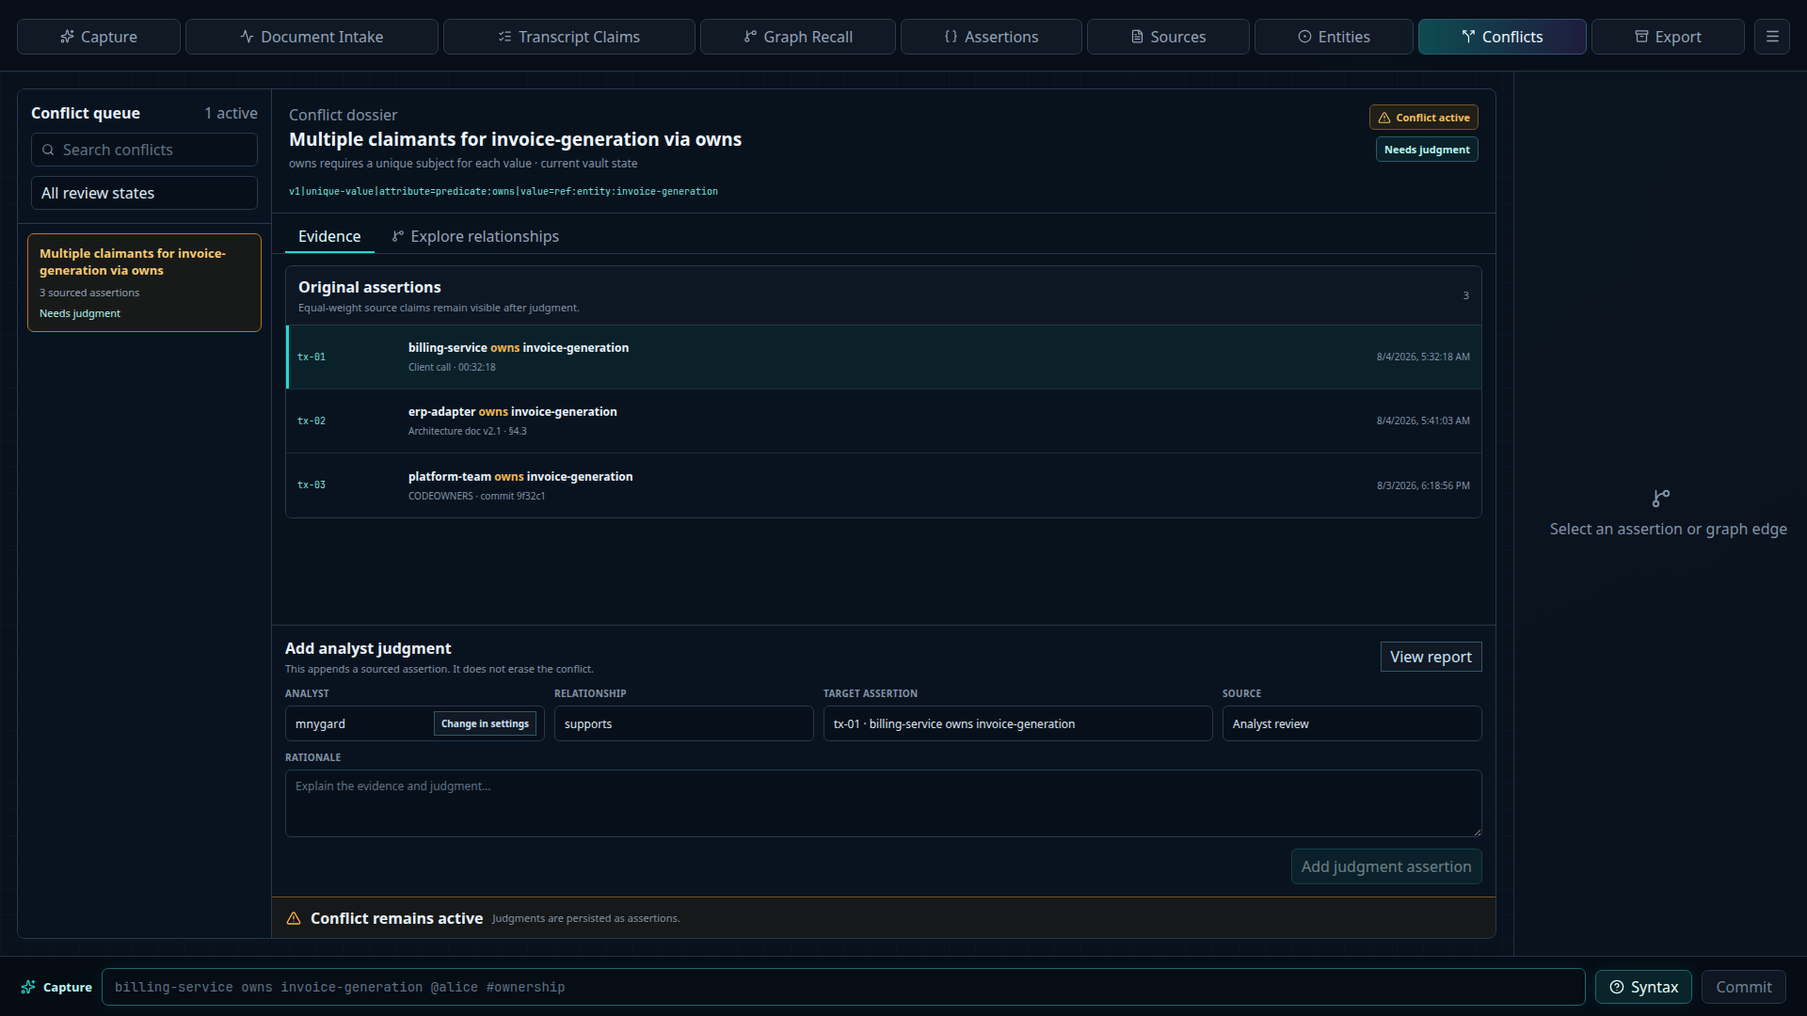
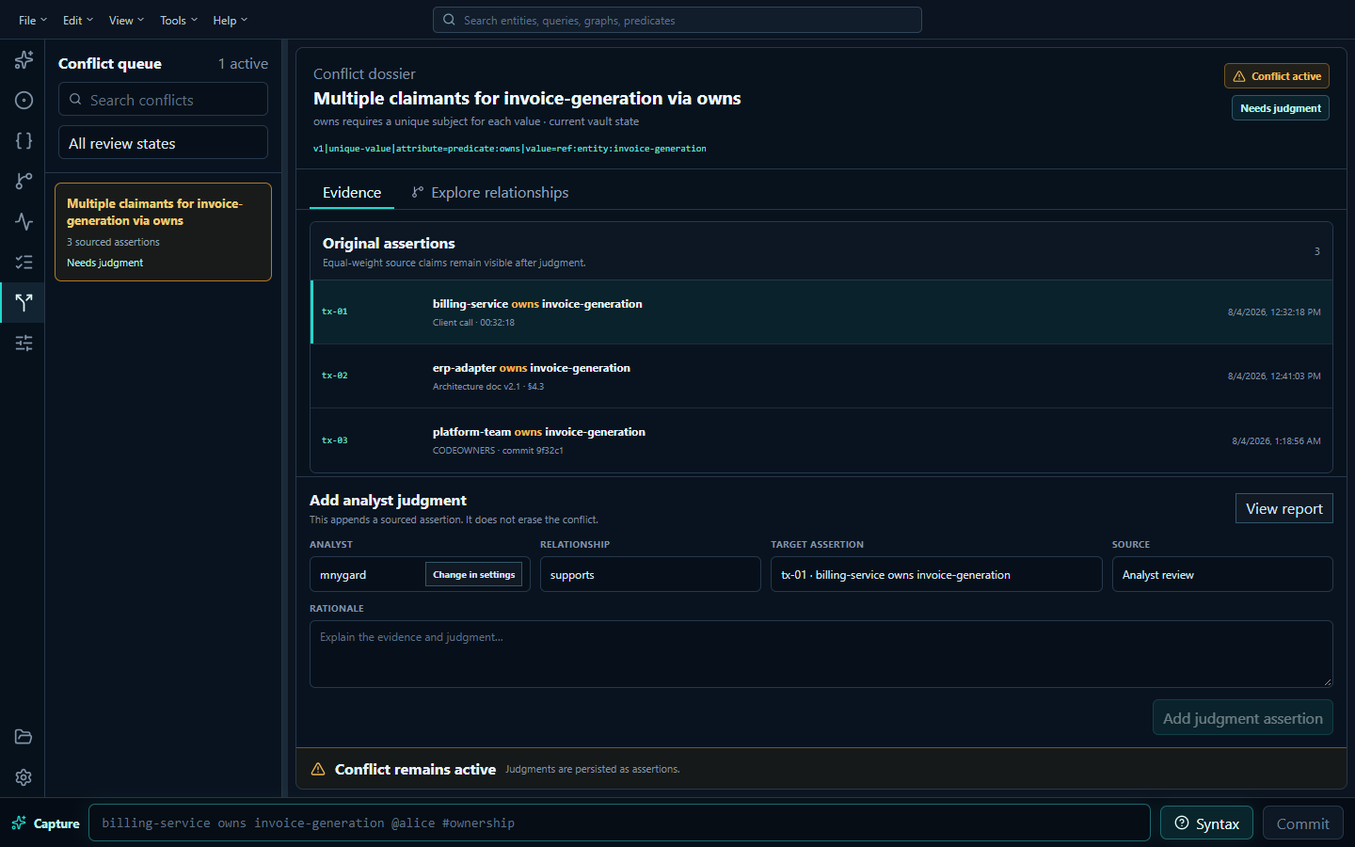
Update guide and screenshots for CLA-128 workbench

diff --git a/site/static/docs.css b/site/static/docs.css
@@ -91,6 +91,8 @@ h3 { margin: 32px 0 12px; font-size: 1.18rem; }
 .docs-home-feature { display: flex; justify-content: space-between; gap: 32px; align-items: end; padding: 28px; border: 1px solid var(--line-strong); border-radius: 10px; background: linear-gradient(120deg, var(--teal-dim), rgba(11, 20, 32, 0.78)); }
 .docs-home-feature h2, .docs-home-section h2 { margin: 0 0 12px; }
 .docs-home-feature p:not(.docs-kind) { max-width: 660px; margin: 0; color: var(--muted); line-height: 1.65; }
+.docs-home-orientation { display: inline-block; margin-top: 12px; color: var(--teal); text-decoration: none; }
+.docs-home-orientation:hover { text-decoration: underline; }
 .docs-home-action { flex: 0 0 auto; padding: 12px 16px; border: 1px solid rgba(34, 216, 204, 0.5); border-radius: 7px; color: var(--text); font-weight: 700; text-decoration: none; }
 .docs-home-section { padding-top: 64px; }
 .docs-card-grid { display: grid; grid-template-columns: repeat(3, minmax(0, 1fr)); gap: 12px; margin-top: 22px; }

diff --git a/site/layouts/_default/guide-home.html b/site/layouts/_default/guide-home.html
@@ -23,7 +23,7 @@
       </header>
       <div class="site-shell docs-home">
         <section class="docs-home-feature" aria-labelledby="get-started-title">
-          <div><p class="docs-kind">New to Claimframe?</p><h2 id="get-started-title">Create your first sourced claim</h2><p>Build a disposable vault, capture two accounts, retrieve them, inspect provenance, and save the query in about ten minutes.</p></div>
+          <div><p class="docs-kind">New to Claimframe?</p><h2 id="get-started-title">Create your first sourced claim</h2><p>Build a disposable vault, capture two accounts, retrieve them, inspect provenance, and save the query in about ten minutes.</p><a class="docs-home-orientation" href="/guide/start/workbench/">First, find your way around the workbench →</a></div>
           <a class="docs-home-action" href="/guide/start/first-claim/">Start the tutorial →</a>
         </section>
 

diff --git a/site/layouts/shortcodes/guide-shot.html b/site/layouts/shortcodes/guide-shot.html
@@ -1,7 +1,7 @@
 <figure class="guide-shot">
   <div class="guide-shot-frame">
     <img src="{{ .Get "src" }}" alt="{{ .Get "alt" }}" loading="lazy">
-    <span class="guide-shot-highlight" style="--shot-x: {{ .Get "x" }}; --shot-y: {{ .Get "y" }}; --shot-width: {{ .Get "width" }}; --shot-height: {{ .Get "height" }};" aria-hidden="true"></span>
+    {{ with .Get "x" }}<span class="guide-shot-highlight" style="--shot-x: {{ . }}; --shot-y: {{ $.Get "y" }}; --shot-width: {{ $.Get "width" }}; --shot-height: {{ $.Get "height" }};" aria-hidden="true"></span>{{ end }}
   </div>
   {{ with .Get "caption" }}<figcaption>{{ . }}</figcaption>{{ end }}
 </figure>

diff --git a/site/layouts/index.html b/site/layouts/index.html
@@ -798,7 +798,7 @@
             <span>vault://client-assertions</span>
             <span class="visual-dots" aria-hidden="true"><span></span><span></span><span></span></span>
           </div>
-          <img src="/assets/claimframe-workbench.png" alt="Claimframe app screenshot showing the Capture tab with a sourced assertion composer, evidence panel, match preview, and quick capture bar.">
+          <img src="/assets/claimframe-workbench.png" alt="Claimframe compact workbench with a menu bar, universal search, left activity bar, contextual Capture sidebar, and a sourced assertion in the main Capture area.">
         </figure>
       </section>
 

diff --git a/site/layouts/_default/docs.html b/site/layouts/_default/docs.html
@@ -24,6 +24,7 @@
         <div class="docs-group">
           <strong>Get started</strong>
           <a href="/guide/">Guide home</a>
+          <a href="/guide/start/workbench/"{{ if eq $.RelPermalink "/guide/start/workbench/" }} aria-current="page"{{ end }}>Find your way around</a>
           <a href="/guide/start/first-claim/"{{ if eq $.RelPermalink "/guide/start/first-claim/" }} aria-current="page"{{ end }}>Your first sourced claim</a>
         </div>
         <div class="docs-group">

diff --git a/site/content/guide/how-to/capture-from-transcript.md b/site/content/guide/how-to/capture-from-transcript.md
@@ -18,17 +18,17 @@ url = "/guide/how-to/inspect-provenance/"
 
 Use transcript workflows when a meeting, interview, or recording contains several statements worth reviewing individually. Claimframe keeps the imported words, speaker, and timestamp as evidence; extraction proposes structured claims from that evidence. Nothing becomes a stored assertion until you accept its candidate.
 
-This page describes the transcript-driven workflow. If you need to extract claims from unstructured documents, use the **Document Intake** tab.
+This page describes the transcript-driven workflow. If you need to extract claims from unstructured documents, choose **Document Intake** in the activity bar.
 
 ## Transcript import
 
-1. Open **Transcript Claims** and choose **New**.
+1. Choose **Transcript Intake** in the activity bar, then choose **New** at the top of the Workflows sidebar.
 2. Give the workflow a recognizable name. The name is optional but useful when several interviews are in progress.
 3. Paste the transcript, or choose **Load transcript file** to read a local text file.
 4. Choose **Import and create workflow**.
 5. Confirm the workflow appears under **In progress** and that the workflow timeline advances beyond **Import transcript**.
 
-{{< guide-shot src="/assets/guide/transcript-import-timeline.png" alt="Transcript Claims import form containing the deterministic transcript at the start of a new workflow" caption="Start a new transcript workflow by naming it and adding the transcript you want to review." >}}
+{{< guide-shot src="/assets/guide/transcript-import-timeline.png" alt="Transcript Intake workspace showing the Workflows sidebar and a new transcript import form" caption="Name the workflow and add the transcript in the main area. Existing workflows remain in the sidebar." >}}
 
 ### Transcript file format
 
@@ -59,16 +59,16 @@ Import stores the source and its segments. It does not by itself create facts in
 
 After import, Claimframe prepares candidate claims from the structured transcript lines and advances the workflow to **Review claims**. Review each candidate against the transcript before deciding whether it should become a fact in the vault.
 
-1. Select the workflow under **In progress** and inspect the proposed candidates and extraction issues.
+1. Select the workflow under **In progress** in the Workflows sidebar and inspect the proposed candidates and extraction issues.
 2. Compare each candidate's subject, predicate, and object with the displayed source words and supporting excerpts.
 3. Correct the structured fields when the proposal does not faithfully represent the source, then save the edits.
 4. Choose **Accept** to create an assertion, **Defer** to leave the candidate unfinished, or **Reject** to make a final decision without creating an assertion.
 5. Use the status tabs to revisit accepted, deferred, or rejected candidates. **Undo last defer/reject** reverses the most recent reversible decision.
-6. Open **Assertions** and confirm accepted candidates retain the transcript source and exact segment evidence.
+6. Open **Query** and confirm accepted candidates retain the transcript source and exact segment evidence.
 
-{{< guide-shot src="/assets/guide/transcript-candidates.png" alt="Transcript Claims candidate review with a selected candidate, its transcript evidence, and controls for configuring a new predicate" x="81.3%" y="8.7%" width="17.7%" height="72.7%" caption="Select a candidate to compare its proposed fields with the exact transcript evidence and configure any new predicate before accepting it." >}}
+{{< guide-shot src="/assets/guide/transcript-candidates.png" alt="Transcript Intake review showing workflow navigation on the left and two candidate cards with fields and review actions in the main area" caption="The workflow queue sits in the sidebar. Review each candidate's structured fields, source words, and evidence before deciding." >}}
 
-When a candidate uses a predicate that is not yet in the vault, the evidence panel marks it as **New predicate**. Under **Values per subject**, choose **One value** when each subject should have at most one current value for the predicate, or **Multiple values** when several values may be current at once. See [Predicate settings](/guide/reference/predicate-settings/) for the consequences of this choice and the other available predicate settings.
+When a candidate uses a predicate that is not yet in the vault, its evidence and validation panel marks it as **New predicate**. Under **Values per subject**, choose **One value** when each subject should have at most one current value for the predicate, or **Multiple values** when several values may be current at once. See [Predicate settings](/guide/reference/predicate-settings/) for the consequences of this choice and the other available predicate settings.
 
 The same normalized claim may appear in more than one transcript segment. Claimframe can present it as one candidate with multiple supporting excerpts. Similar but non-identical claims remain separate for review, and a line that cannot be parsed appears as an extraction issue rather than becoming a fact silently.
 
@@ -83,4 +83,4 @@ There is no separate completion button. Claimframe completes the workflow automa
 3. Confirm the timeline reaches **Complete** and the message **Transcript claim review complete** appears.
 4. Confirm the workflow moves from **In progress** to **Completed** in the workflow list.
 
-Accepted candidates are available under **Assertions**. Rejected candidates remain part of the transcript workflow's review history but do not become assertions.
+Accepted candidates are available under **Query**. Rejected candidates remain part of the transcript workflow's review history but do not become assertions.

diff --git a/site/content/guide/start/workbench.md b/site/content/guide/start/workbench.md
@@ -1,0 +1,33 @@
++++
+title = "Find your way around the workbench"
+description = "Use the activity bar, workspace sidebar, menus, search, and contextual details in the compact desktop layout."
+layout = "docs"
+doc_type = "Get started"
+doc_section = "Get started"
+[[related]]
+label = "Keyboard shortcuts"
+url = "/guide/reference/keyboard-shortcuts/"
+[next]
+label = "Create your first sourced claim"
+url = "/guide/start/first-claim/"
++++
+
+Claimframe opens inside one workbench shell. Before a vault is open, the start screen occupies its content area. After you open a vault, the narrow activity bar on the left selects the main workspace. Hover over an icon to see its name; the active workspace is marked in the bar.
+
+{{< guide-shot src="/assets/guide/manual-capture.png" alt="Compact Claimframe workbench showing the menu bar and universal search above the activity bar, Capture sidebar, and main Capture area" caption="The activity bar selects a workspace; its sidebar and main area then show controls for that task." >}}
+
+## Move between workspaces
+
+The activity bar opens **Capture**, **Entities**, **Query**, **Graph**, **Document Intake**, **Transcript Intake**, **Conflicts**, and **Predicates**. **Vaults** and **Settings** sit at the foot of the bar. **Sources**, **Manage Queries**, and **Manage Vocabularies** are available from **Tools** in the menu bar.
+
+The sidebar changes with the workspace. In **Capture**, choose an entity to insert its name into the capture field. In **Query**, the sidebar shows saved queries and entities; choosing a saved query runs it. **Document Intake**, **Transcript Intake**, and **Conflicts** put their workflow or review queues there. Sidebar sections expand and collapse in a fixed order.
+
+Choose the active activity-bar icon again, or **View → Hide Sidebar**, to give the main task more room. Choose it again or **View → Show Sidebar** to restore the sidebar. Drag the divider to resize it; with the divider focused, use the left and right arrow keys. Double-click the divider to restore its default width.
+
+## Find content and inspect details
+
+The search field in the menu bar finds content in the current vault. Select a result to open the relevant workspace. For a structured assertion search, open **Query** or **Graph** and enter a query there.
+
+Select an assertion to show its provenance and review controls on the right. Use **View → Hide Details** or **Show Details** when an assertion is selected. Graph, transcript, and conflict views also show task-specific details inside their main area.
+
+Use **File** for vault actions and **Tools** for sources, saved queries, predicates, vocabularies, and application settings. **View** also contains **Zoom In**, **Zoom Out**, and **Reset Zoom**. These commands change the interface scale, including the sidebar and main content.

diff --git a/site/content/guide/how-to/query-and-save.md b/site/content/guide/how-to/query-and-save.md
@@ -12,15 +12,15 @@ label = "Inspect provenance"
 url = "/guide/how-to/inspect-provenance/"
 +++
 
-1. Open **Assertions** or **Graph Recall**.
+1. Choose **Query** or **Graph** in the activity bar.
 2. Enter the smallest subject–predicate–object pattern that describes the needed result, then run it.
 3. Narrow the results with source, predicate, object, status, or conflicts-only filters where available. You can also select a value in an assertion row to pivot to a related result.
 4. Beside the query field, choose **Save current query**.
 5. In the **Query name** field, enter a recognizable name such as `Invoice ownership`.
-6. Choose **Save query**. A success message confirms that the query pattern—not the matching facts—was saved in the current vault.
-7. Open the app menu and choose **Manage queries** to run, rename, or delete the saved query.
+6. Choose **Save**. A success message confirms that the query pattern—not the matching facts—was saved in the current vault.
+7. Run the saved query from **Saved Queries** in the Query sidebar. Choose **Tools → Manage Queries** to rename or delete it.
 
-{{< guide-shot src="/assets/guide/save-query.png" alt="Assertion Recall with the save-query name dialog highlighted" x="53%" y="22%" width="23%" height="15%" caption="The save control beside the query opens this naming dialog. Name the query, then choose Save." >}}
+{{< guide-shot src="/assets/guide/save-query.png" alt="Query workspace with Saved Queries in the sidebar and the query naming popover open" x="54%" y="18.7%" width="22.5%" height="17.3%" caption="The save control beside the query opens a naming popover. Saved queries appear in the Query sidebar." >}}
 
 For example:
 
@@ -32,6 +32,6 @@ If a structured query returns nothing, remove one exact value or replace it with
 
 Saving a query does not copy or freeze its current results. Running it later evaluates the saved pattern against the vault's then-current facts.
 
-## Export the result
+## Export vault content
 
-Open **Export** to copy the current vault assertions as Markdown for notes, documentation, or handoff. Check the preview or copied output before using it: export carries the selected assertion material forward but does not replace the original vault or its interactive provenance views.
+Choose **File → Export Vault** to start a CFText export in **Vaults**. The exported file is a current-state copy of the vault for sharing or editing; it does not save only the current query results. Keep the original vault and its backups for provenance and full review history.

diff --git a/site/content/guide/how-to/manage-vocabulary.md b/site/content/guide/how-to/manage-vocabulary.md
@@ -27,8 +27,8 @@ You can use a vault without adopting any vocabulary. Adopt one when stable ident
 
 ## Preview a release
 
-1. Open the app menu and choose **Manage vocabularies**.
-2. Select a supplied release from **Library**, or choose **Import file** to preview a local `.cfvocab` package.
+1. Choose **Settings** at the foot of the activity bar, then expand **Vocabularies** in its sidebar. You can also choose **Tools → Manage Vocabularies**.
+2. Select a supplied release in the **Vocabularies** sidebar, or choose **Import vocabulary file** in its section header to preview a local `.cfvocab` package.
 3. Review the publisher, namespace, license, release number, attribution, and content counts.
 4. Scan **Contents** for the terms and predicates you expect. If the preview reports local name collisions, review the replacement tokens before continuing.
 
@@ -42,7 +42,7 @@ Under **Import content**, choose the kinds of content the vault needs:
 - **Predicates** imports properties and their value shapes.
 - **General knowledge** imports the package's assertions connecting those terms. It is available only when both terms and predicates are selected.
 
-{{< guide-shot src="/assets/guide/manage-vocabulary.png" alt="Vocabulary preview showing its contents, import-content choices, attribution, and Adopt vocabulary button" x="35.7%" y="72.8%" width="62.2%" height="16.8%" caption="Choose the content categories the vault needs, review the attribution, and then adopt the release." >}}
+{{< guide-shot src="/assets/guide/manage-vocabulary.png" alt="Vocabularies settings with a selected RDF/RDFS release in the sidebar and its contents, import choices, attribution, and Adopt vocabulary button in the main area" x="22.8%" y="60.5%" width="74.2%" height="20.4%" caption="Select a release in the sidebar, review its details, and choose the content to adopt." >}}
 
 1. Confirm the attribution displayed below the import choices.
 2. Choose **Adopt vocabulary**.
@@ -53,8 +53,8 @@ Claimframe blocks another release with the same vocabulary ID rather than treati
 
 ## Undo an adoption
 
-1. Return to **Manage vocabularies**.
-2. Find the release under **Adopted by this vault**.
+1. Return to **Settings → Vocabularies**.
+2. Select the adopted release in the sidebar.
 3. Choose **Undo unused import**, then confirm with **Remove**.
 
 Undo succeeds only while no assertion, saved query, or other adopted vocabulary depends on the imported content. When the button is disabled, its explanation identifies why the release cannot be removed.

diff --git a/site/content/guide/start/first-claim.md b/site/content/guide/start/first-claim.md
@@ -7,6 +7,9 @@ doc_section = "Get started"
 [[related]]
 label = "Why assertions are not facts"
 url = "/guide/concepts/assertions-not-facts/"
+[[related]]
+label = "Find your way around the workbench"
+url = "/guide/start/workbench/"
 [next]
 label = "Modeling good claims"
 url = "/guide/concepts/modeling-good-claims/"
@@ -24,7 +27,7 @@ On the start screen, choose **New vault**. Save the file as `claimframe-tutorial
 
 ## 2. Capture Alice's claim
 
-Open **Capture**, enter the following text exactly, and commit it:
+Choose **Capture** in the left activity bar, enter the following text exactly in the main capture field, and choose **Commit**:
 
 ```text
 billing-service owns invoice-generation @alice ^00:32:18 #ownership
@@ -34,7 +37,7 @@ billing-service owns invoice-generation @alice ^00:32:18 #ownership
 
 ## 3. Capture Bob's different account
 
-Enter and commit:
+In the same capture field, enter and commit:
 
 ```text
 accounting-platform owns invoice-generation @bob ^00:41:03 #ownership
@@ -44,7 +47,7 @@ accounting-platform owns invoice-generation @bob ^00:41:03 #ownership
 
 ## 4. Retrieve the ownership claims
 
-Open **Assertions**. In the query field, enter:
+Choose **Query** in the activity bar. In its query field, enter:
 
 ```text
 ? owns invoice-generation
@@ -56,7 +59,7 @@ Run the query.
 
 ## 5. Inspect the evidence
 
-Select Alice's assertion. In the provenance inspector, locate the source, evidence locator, capture time, status, confidence, and raw capture text.
+Select Alice's assertion. The provenance panel opens at the right. Locate the source, evidence locator, capture time, status, confidence, and original source text. If you hid the panel, choose **View → Show Details**.
 
 **Expected result:** the source is `alice`, the locator is `00:32:18`, and the default status is `active`.
 
@@ -68,9 +71,9 @@ With Alice's assertion selected, change its status to `needs_review`.
 
 ## 7. Save the query
 
-Return to the query field and choose **Save current query**. Enter `Invoice ownership` in the **Query name** field, then choose **Save query**.
+Return to the query field and choose **Save current query** beside it. Enter `Invoice ownership` in the **Query name** field, then choose **Save**.
 
-Open the app menu, choose **Manage queries**, and run `Invoice ownership`.
+Run `Invoice ownership` from **Saved Queries** in the Query sidebar. For rename or delete actions, choose **Tools → Manage Queries**.
 
 **Expected result:** the same two ownership claims return without retyping the pattern.
 

diff --git a/site/content/guide/how-to/manage-vault.md b/site/content/guide/how-to/manage-vault.md
@@ -1,6 +1,6 @@
 +++
 title = "Manage a vault"
-description = "Create, open, switch, rename, and safely back up a local Claimframe vault."
+description = "Create, open, rename, and safely back up a local Claimframe vault."
 layout = "docs"
 doc_type = "How-to guide"
 doc_section = "How-to guides"
@@ -23,20 +23,20 @@ Use these procedures to manage the local file that holds one body of Claimframe 
 
 Normal vaults start empty. Supported file extensions include `.sqlite3`, `.sqlite`, `.db`, and `.cfvault`.
 
-## Open or switch vaults
+## Open another vault
 
-1. Choose a recent vault on the start screen, or open the app menu and choose **Manage vaults**.
-2. Select a recent vault or browse for a local vault file.
-3. Open it in the current window to switch context, or choose the new-window action to keep both vaults open.
+1. On the start screen, choose a recent vault or use **File → Open Vault** to browse for a local file. **File → Recent vaults** also lists tracked files.
+2. With a vault open, choose the **Vaults** icon and then **Recent vaults** in its sidebar, or choose **File → Manage Vaults**.
+3. The first vault binds the current process. Opening another vault while one is active opens it in a new window; use **Open in New Window** from the recent-vault list.
 4. Confirm the intended vault path before capturing or querying.
 
 ## Rename the display name
 
-In **Manage vaults**, choose **Rename**, enter the new display name, and save it. This changes application metadata; it does not rename or move the underlying SQLite file.
+In **Vaults → Recent vaults**, choose **Rename**, enter the new display name, and save it. This changes application metadata; it does not rename or move the underlying SQLite file.
 
 ## Back up a vault
 
-1. Find the active vault path in application settings.
+1. Find the active vault path under **Vaults → Current vault**.
 2. Close Claimframe and stop any local MCP process using that vault.
 3. Copy the vault file into the project's encrypted backup location.
 4. Confirm the copied file exists and has a plausible modification time and size.

diff --git a/site/content/guide/how-to/resolve-disagreement.md b/site/content/guide/how-to/resolve-disagreement.md
@@ -19,13 +19,13 @@ Use the Conflicts workspace to compare competing source claims and record what a
 
 ## Review the conflict
 
-1. Open **Conflicts** and select a conflict from the queue.
+1. Choose **Conflicts** in the activity bar and select a conflict from the queue in its sidebar.
 2. Confirm that the dossier says **Conflict active** and inspect the detection rule beneath the title. If the conflict is unexpected, review the predicate's [settings](/guide/reference/predicate-settings/) before judging the source claims.
 3. Under **Original assertions**, select each participating claim in turn.
-4. Compare its exact wording, source, evidence locator, capture time, and provenance in the inspector at the right.
+4. Compare its exact wording, source, evidence locator, capture time, and provenance in the details panel. Choose **View → Show Details** if that panel is hidden.
 5. Use **Explore relationships** when nearby facts would help explain the disagreement. Added neighbors provide context; they do not change which assertions participate in the conflict.
 
-{{< guide-shot src="/assets/guide/resolve-disagreement.png" alt="Conflict dossier showing three original assertions, active conflict and review-state badges, and the analyst judgment form" x="75.7%" y="9.7%" width="6.4%" height="7%" caption="The conflict condition and its review state are separate. Recording a judgment changes the review state while the conflict remains active." >}}
+{{< guide-shot src="/assets/guide/resolve-disagreement.png" alt="Compact Conflicts workspace with its queue in the left sidebar and a dossier showing original assertions, review badges, and analyst judgment form" caption="The conflict queue stays in the sidebar while the dossier uses the main area. The condition and review state remain separate." >}}
 
 ## Record an analyst judgment
 
